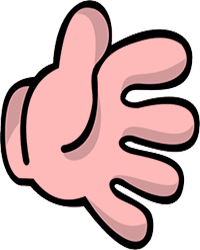
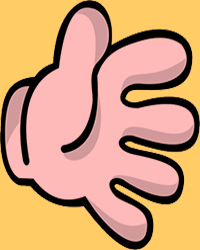
image bg color changed

diff --git a/index.py b/index.py
@@ -64,7 +64,7 @@ def save_window():
     lbl_player_name.config(bg="#99ff99")
     e1 = Entry(window_save)
     e1.place(x = 130, y = 50)
-    enter = Button(window_save, text="Save", command=save_player_name())
+    enter = Button(window_save, text="Save", command=save_player_name)
     enter.place(x = 280, y = 45)
 
 def save_player_name():
